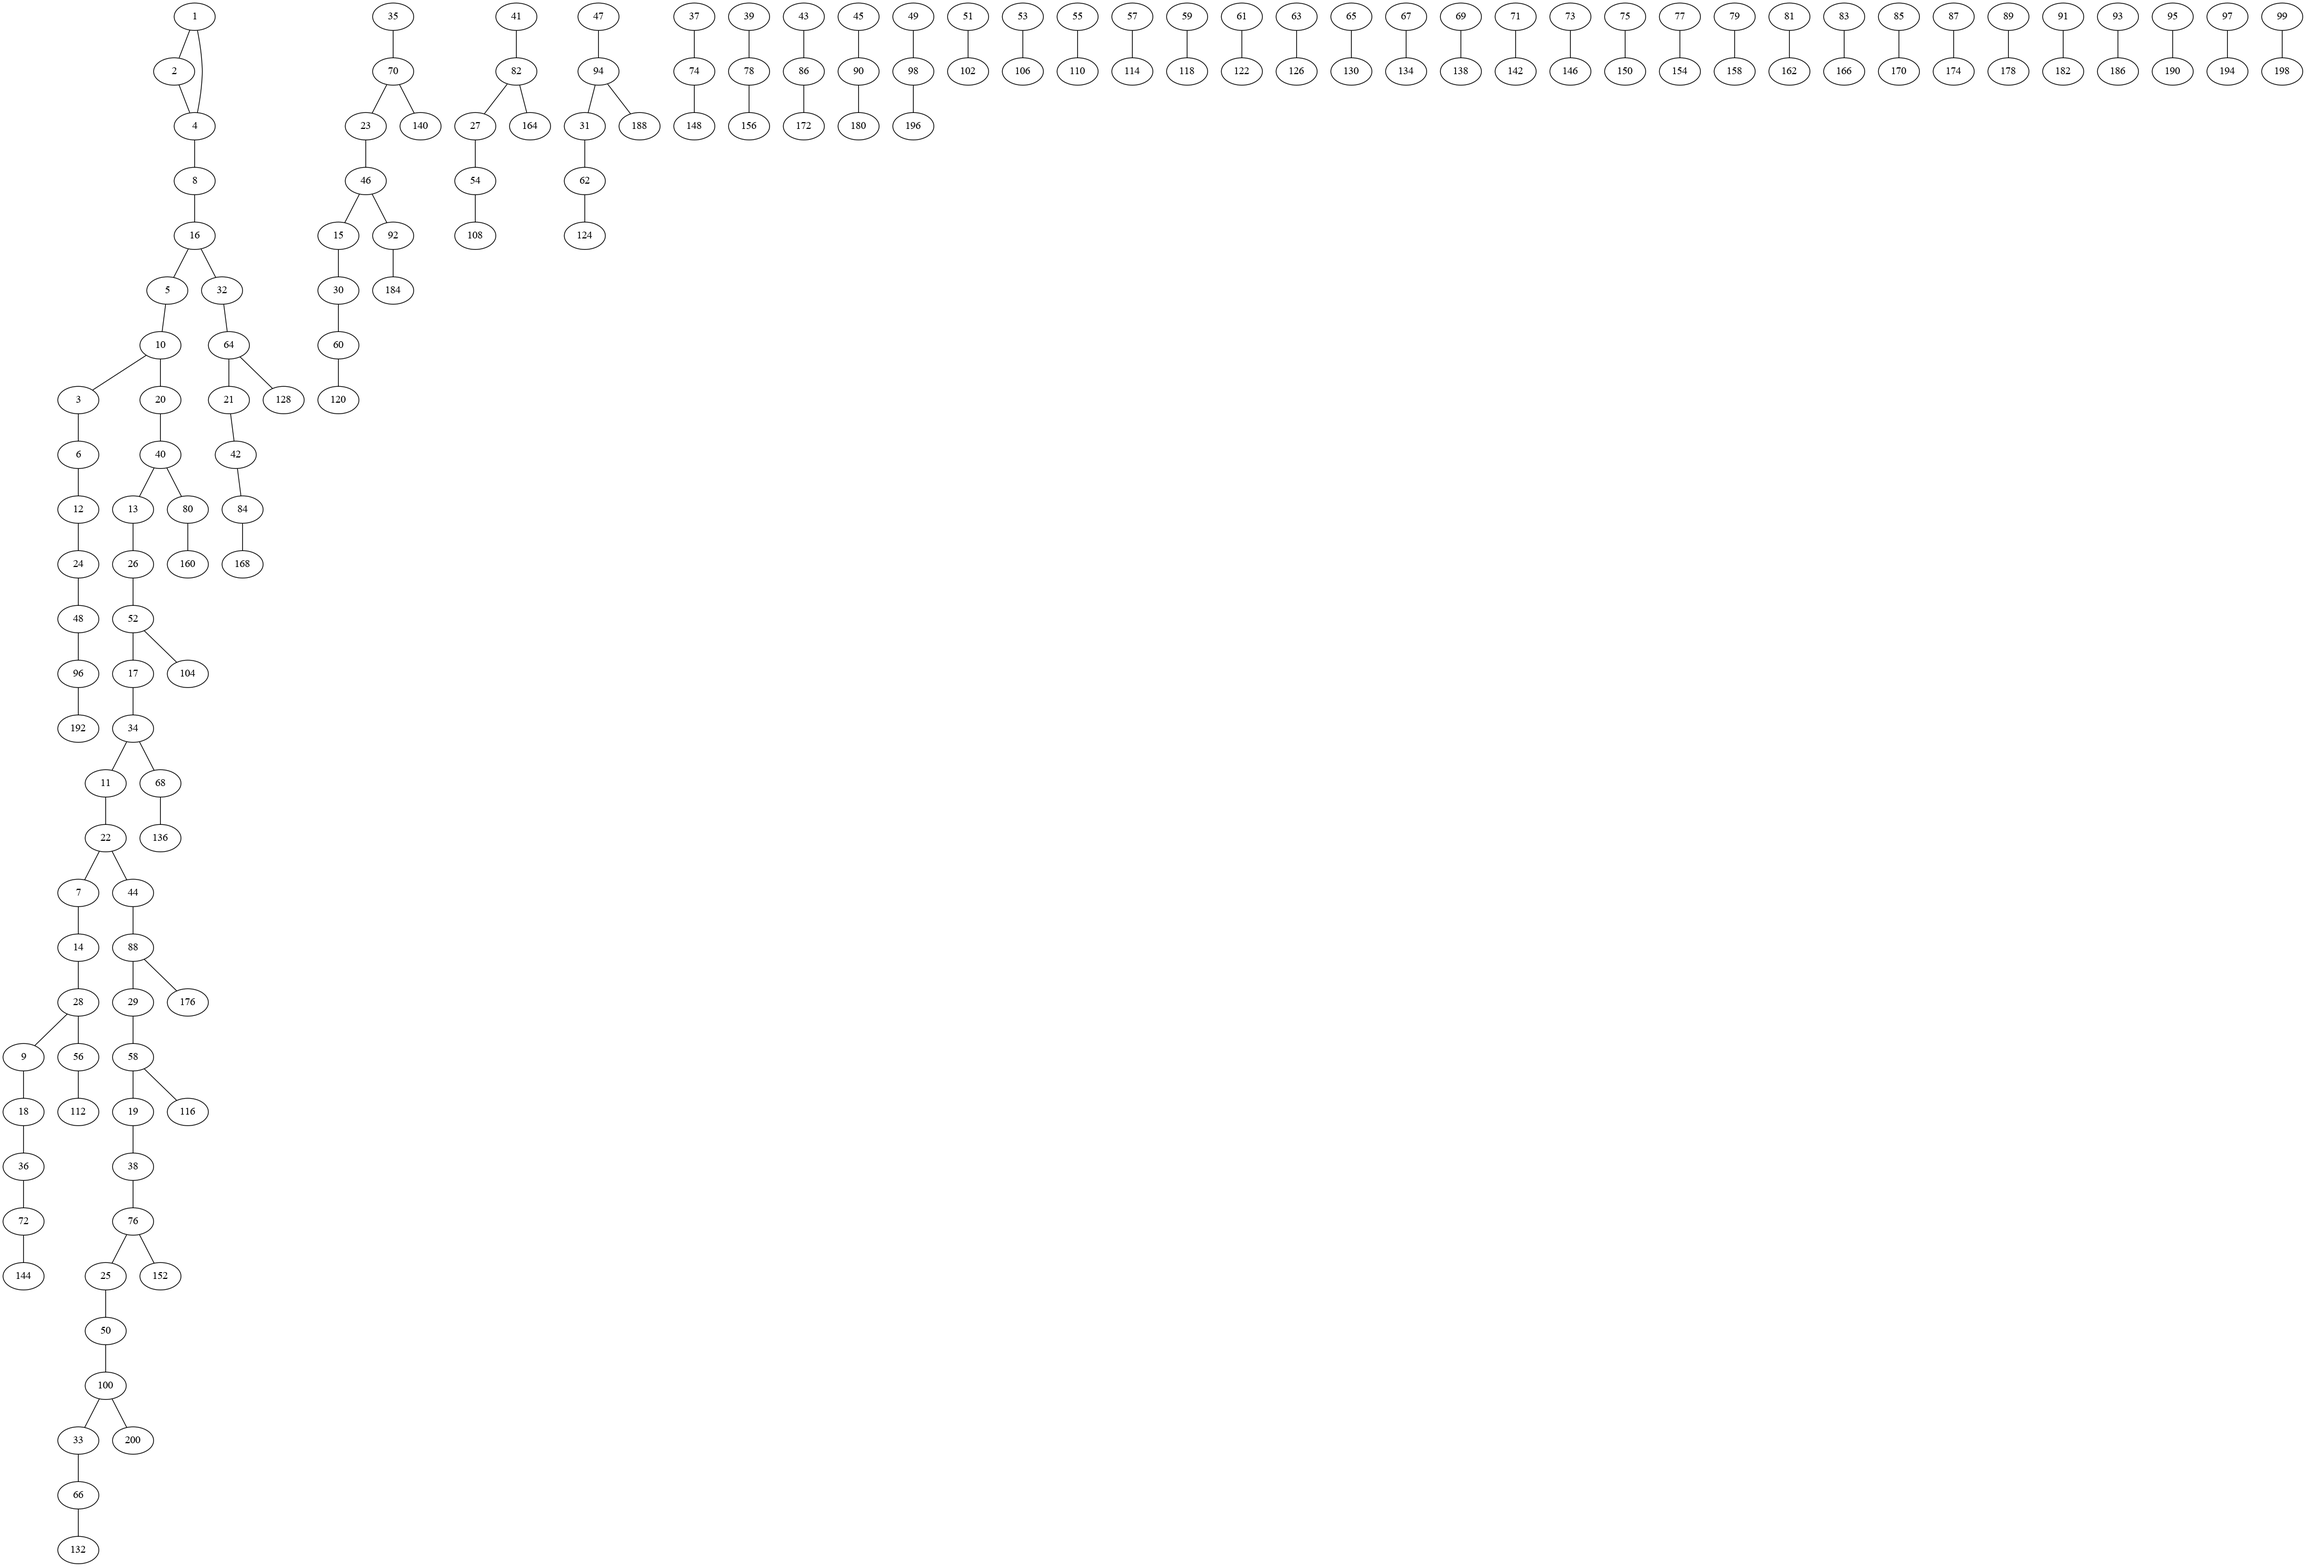
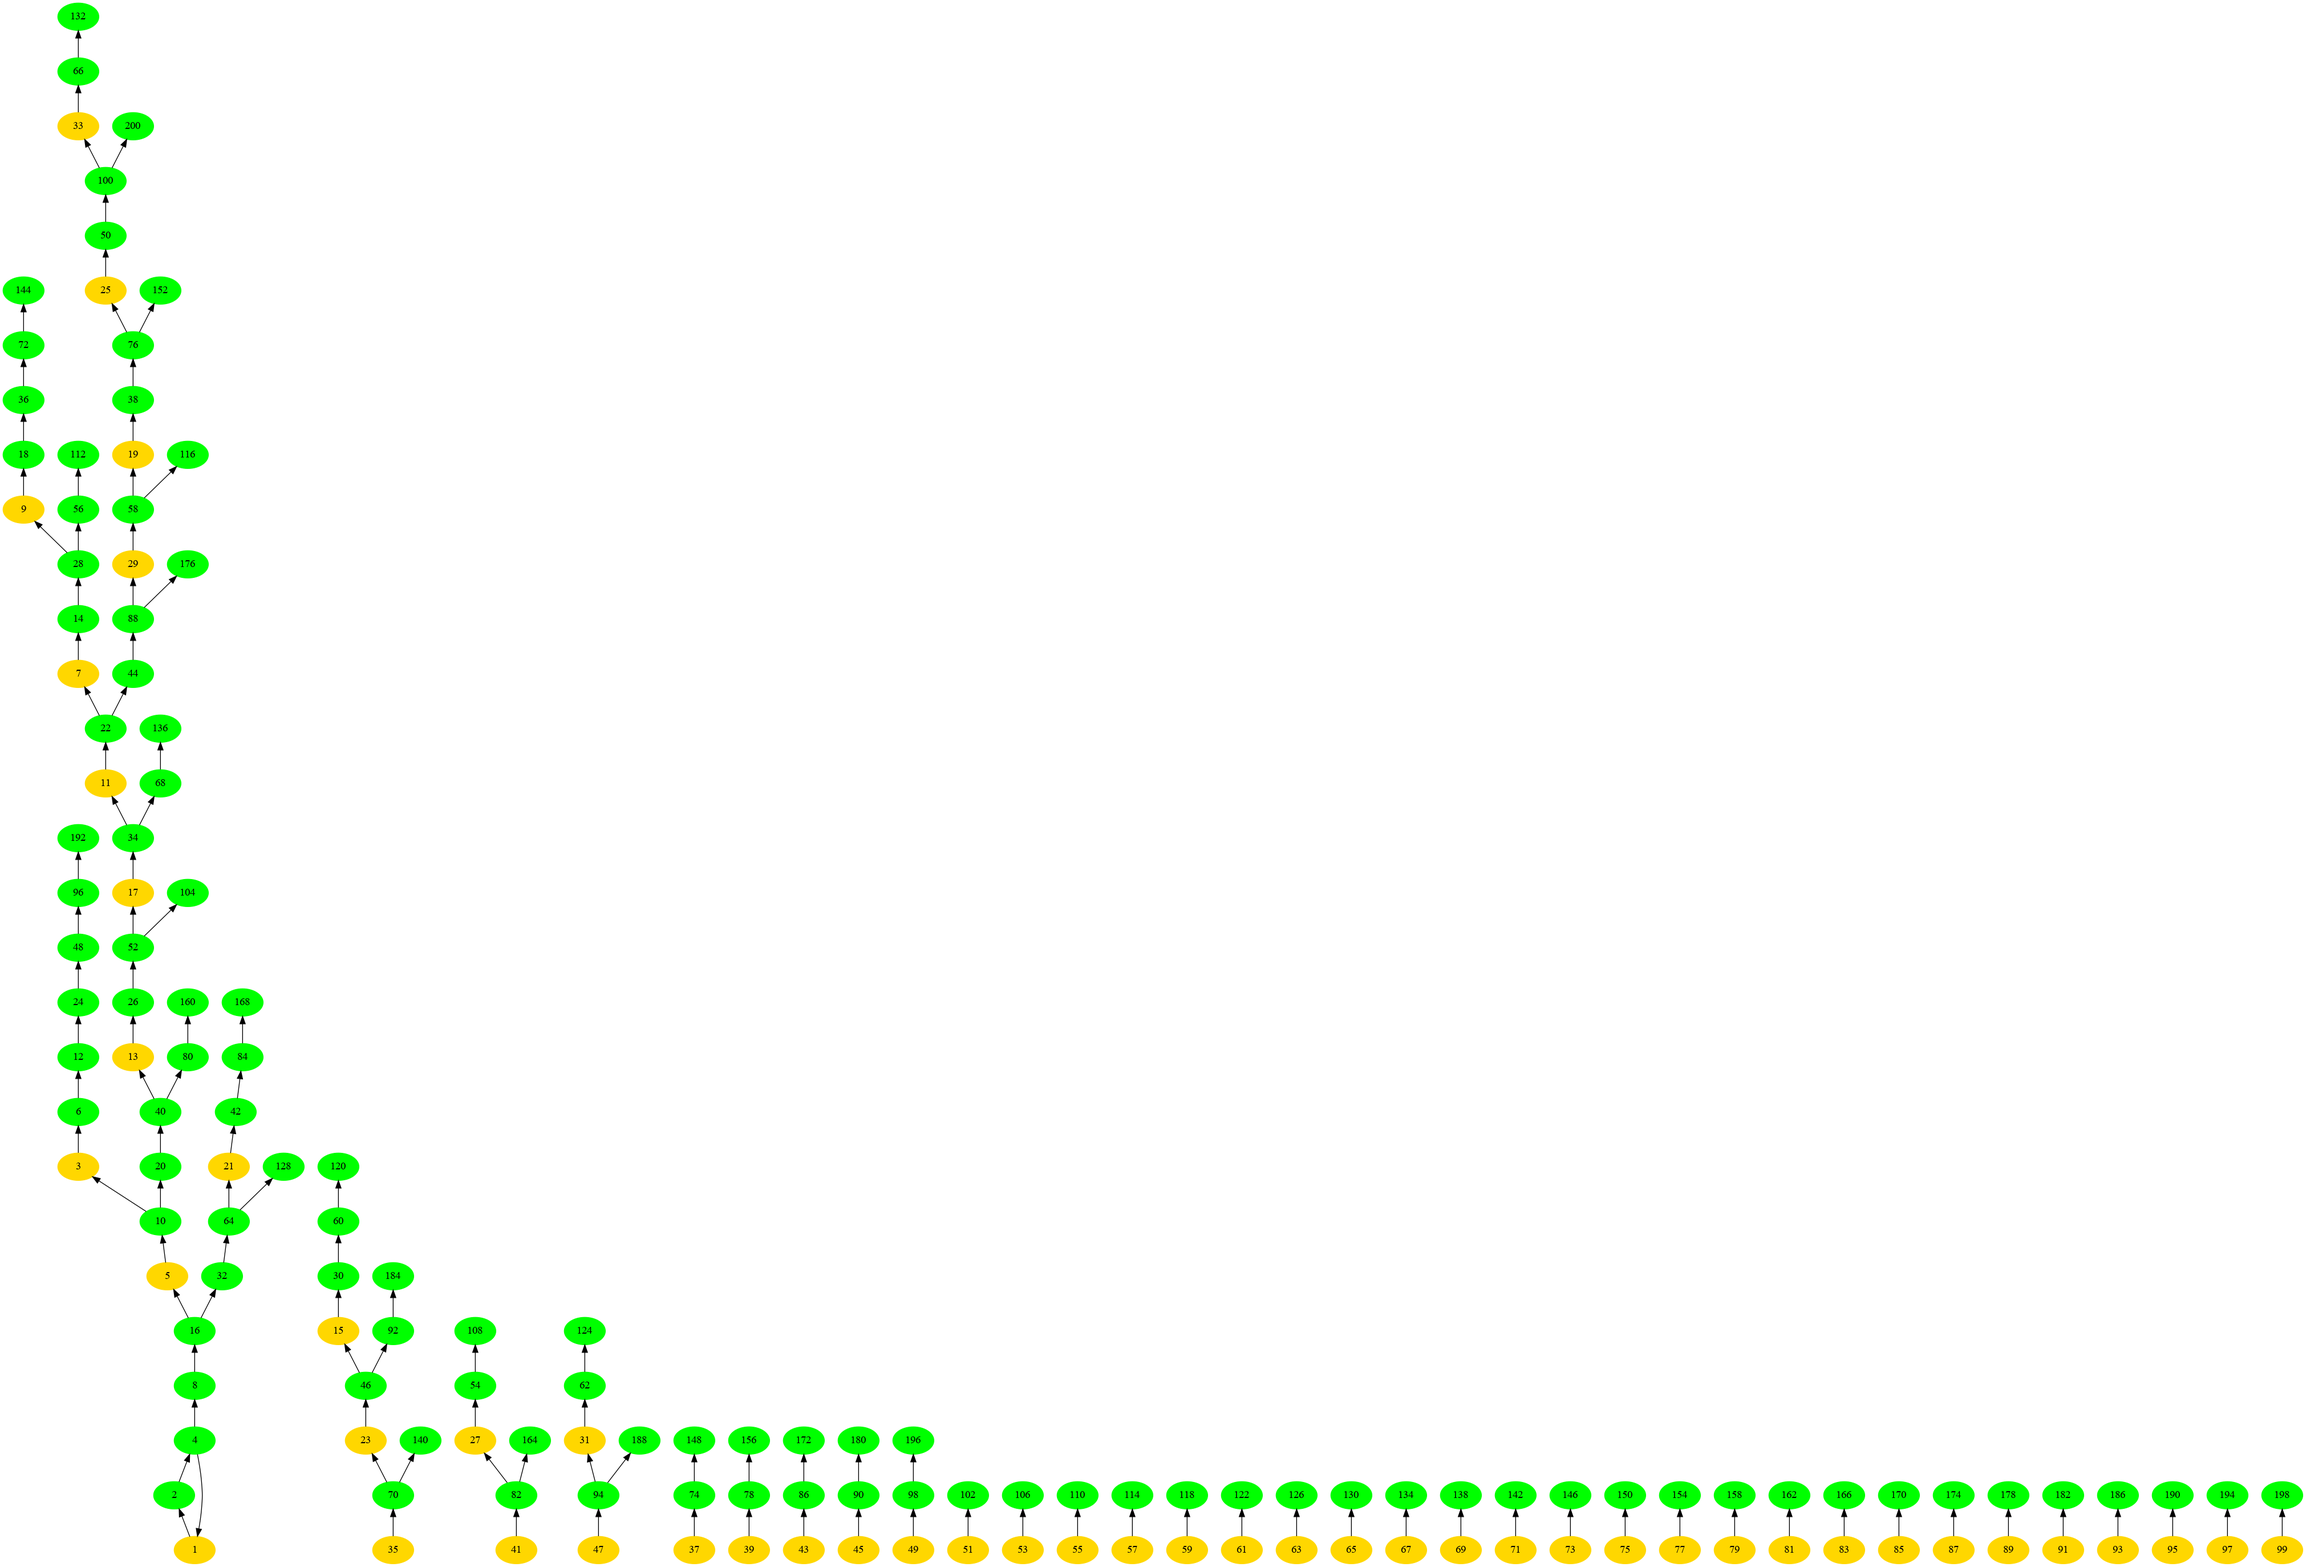
chore: improve tree visualization (#11)
The tree is displayed in a bottom-up layout, with colors different for
even and odd nodes.

Changed region(s): [[0.0, 0.0, 1.0, 1.0]]

diff --git a/src/tree.rs b/src/tree.rs
@@ -29,15 +29,42 @@ impl CollatzTree {
         let filename: &str = &format!("tree_to_{}.dot", self.target);
         let mut file = File::create(filename)?;
 
-        writeln!(&mut file, "graph to_{} {{", self.target)?;
+        writeln!(&mut file, "digraph to_{} {{", self.target)?;
+        writeln!(&mut file, "\trankdir=BT;")?;
+        self.define_node_colors(&mut file)?;
         for (i, branches) in self.adjacency_matrix.iter().enumerate() {
-            writeln!(&mut file, "\t{} -- {};", i + 1, branches.0)?;
+            writeln!(&mut file, "\t{} -> {};", i + 1, branches.0)?;
             if let Some(odd_number) = branches.1 {
-                writeln!(&mut file, "\t{} -- {};", i + 1, odd_number)?;
+                writeln!(&mut file, "\t{} -> {};", i + 1, odd_number)?;
             }
         }
         writeln!(&mut file, "}}")?;
         file.flush()?;
+        Ok(())
+    }
+
+    fn define_node_colors(
+        &self,
+        file: &mut File,
+    ) -> Result<(), Box<dyn std::error::Error>> {
+        for i in 0..self.adjacency_matrix.len() {
+            if (i + 1) % 2 == 0 {
+                writeln!(file, "{} [color=green, style=filled];", i + 1)?;
+            } else {
+                writeln!(file, "{} [color=gold, style=filled];", i + 1)?;
+            }
+        }
+
+        for node in self.adjacency_matrix.iter() {
+            if node.0 > self.adjacency_matrix.len() as u128 {
+                writeln!(file, "{} [color=green, style=filled];", node.0)?;
+            }
+            if let Some(odd) = node.1 {
+                if odd > self.adjacency_matrix.len() as u128 {
+                    writeln!(file, "{} [color=gold, style=filled];", odd)?;
+                }
+            }
+        }
         Ok(())
     }
 }
